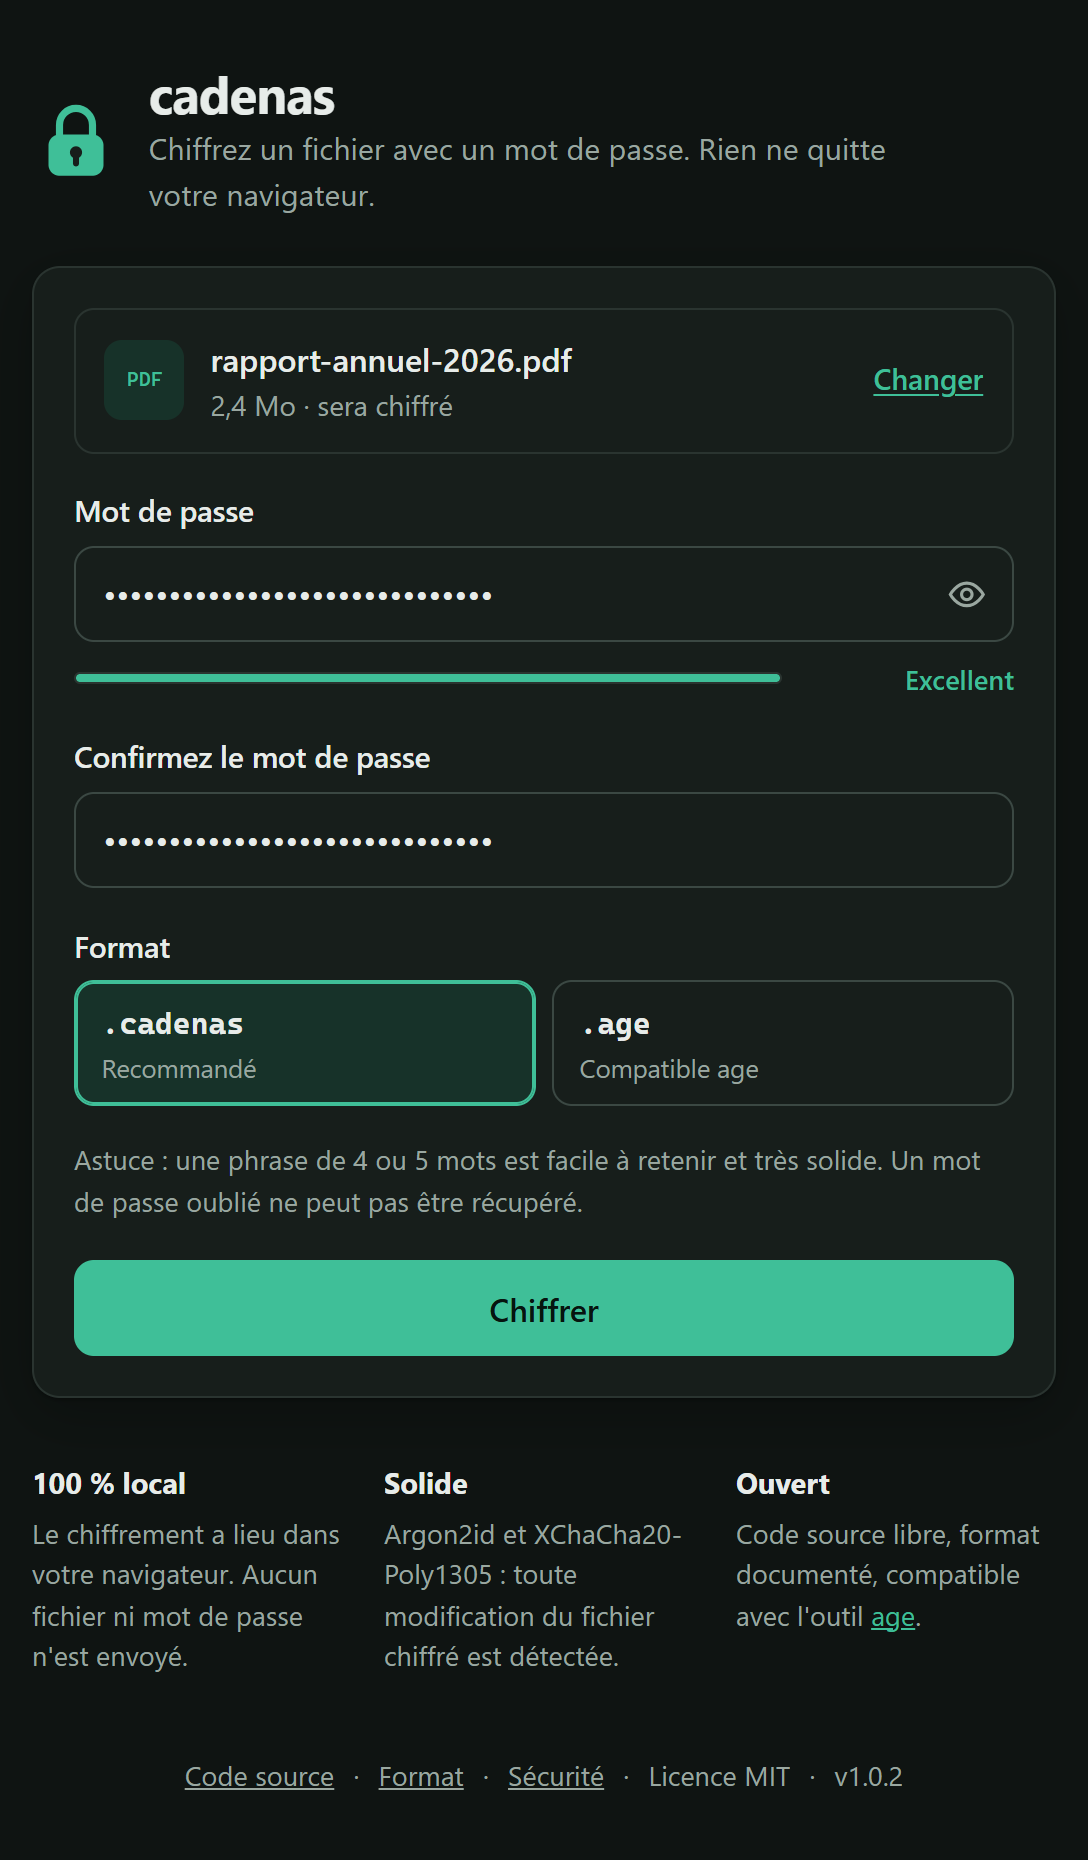
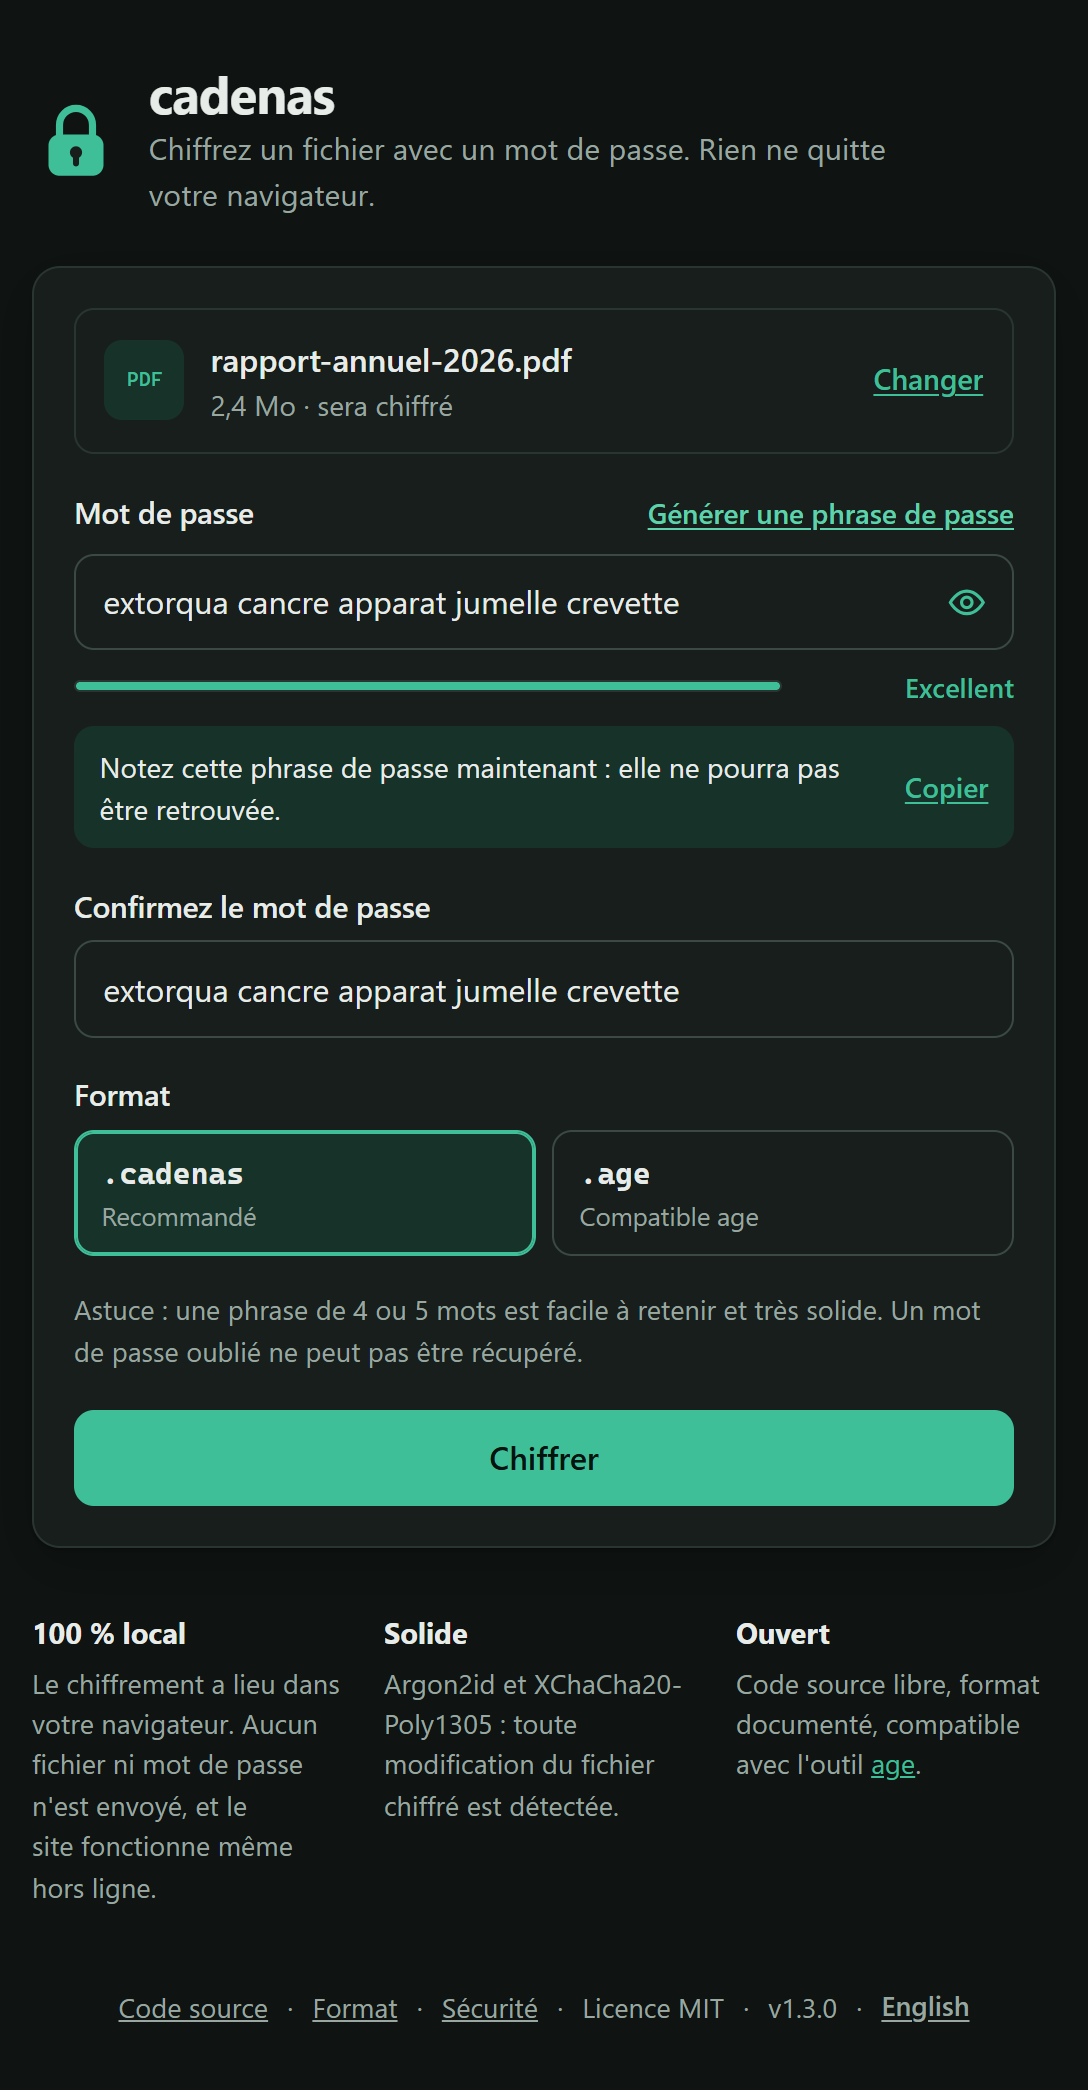
chore(release): 1.3.0
- Site installable, utilisable hors ligne (service worker, manifeste,
  mises à jour à la demande).
- Exécutables autonomes de la CLI : Windows x64, macOS arm64,
  Linux x64 et arm64, joints à la release avec attestation.

README : captures d'écran à jour et section hors ligne.

diff --git a/CHANGELOG.md b/CHANGELOG.md
@@ -5,13 +5,21 @@ Toutes les modifications notables de ce projet sont documentées dans ce fichier
 Le format suit [Keep a Changelog](https://keepachangelog.com/fr/1.1.0/)
 et le projet respecte le [versionnage sémantique](https://semver.org/lang/fr/).
 
-## [Non publié]
+## [1.3.0] - 2026-09-27
+
+Site installable et utilisable hors ligne, exécutables autonomes de la CLI.
+Aucun changement du format de fichier.
 
 ### Ajouté
 
 - Site installable et utilisable hors ligne (application web progressive) : manifeste, icônes, et service worker qui met en cache tous les fichiers du site. Une nouvelle version s'installe en arrière-plan et ne s'applique qu'après un clic sur « Mettre à jour », jamais au milieu d'un chiffrement.
 - Image Docker : le service worker reçoit sa propre politique de sécurité (`connect-src 'self'`, pour mettre le site en cache) ; la page garde `connect-src 'none'`. Manifeste servi avec le bon type MIME.
 - Exécutables autonomes de la CLI, sans Node.js à installer : Windows x64, macOS arm64, Linux x64 et arm64. Construits par la CI (Node.js « Single Executable Application »), testés sur chaque plateforme avant publication, joints à chaque release avec empreintes et attestation de provenance. `npm run build:exe` construit celui de la plateforme courante.
+- Le workflow de release peut être lancé à la main pour tout construire et tester sans rien publier.
+
+### Modifié
+
+- README : captures d'écran à jour (générateur de phrase de passe, sélecteur de langue), installation hors ligne.
 
 ## [1.2.0] - 2026-09-27
 
@@ -186,6 +194,7 @@ En résumé :
 
 - Initialisation du projet : `package.json`, licence MIT, README, `.editorconfig`, `.gitignore`.
 
+[1.3.0]: https://github.com/PierreEbele/cadenas/compare/v1.2.0...v1.3.0
 [1.2.0]: https://github.com/PierreEbele/cadenas/compare/v1.1.0...v1.2.0
 [1.1.0]: https://github.com/PierreEbele/cadenas/compare/v1.0.2...v1.1.0
 [1.0.2]: https://github.com/PierreEbele/cadenas/compare/v1.0.1...v1.0.2

diff --git a/README.md b/README.md
@@ -15,7 +15,7 @@ existe en ligne de commande.
   <a href="https://pierreebele.github.io/cadenas/">
     <picture>
       <source media="(prefers-color-scheme: dark)" srcset="https://raw.githubusercontent.com/PierreEbele/cadenas/main/docs/images/screenshot-dark.png">
-      <img src="https://raw.githubusercontent.com/PierreEbele/cadenas/main/docs/images/screenshot-light.png" alt="Le site cadenas : un fichier rapport-annuel-2026.pdf est sélectionné, le mot de passe est jugé excellent, le format .cadenas est choisi et le bouton Chiffrer est prêt." width="420">
+      <img src="https://raw.githubusercontent.com/PierreEbele/cadenas/main/docs/images/screenshot-light.png" alt="Le site cadenas : un fichier rapport-annuel-2026.pdf est sélectionné, une phrase de passe de cinq mots vient d'être générée et jugée excellente, le format .cadenas est choisi et le bouton Chiffrer est prêt." width="420">
     </picture>
   </a>
 </p>
@@ -48,6 +48,11 @@ Version en ligne : **<https://pierreebele.github.io/cadenas/>**
 
 cadenas reconnaît tout seul si le fichier est à chiffrer ou à déchiffrer. Le site
 est disponible en français et en anglais, selon la langue du navigateur.
+
+Après une première visite, **le site fonctionne hors ligne** et peut s'installer
+comme une application (menu du navigateur → « Installer cadenas » ou « Ajouter à
+l'écran d'accueil »). Sur Chrome et Edge, les fichiers de plus de 256 Mio sont
+écrits directement sur le disque : pas de limite de taille liée à la mémoire.
 
 ## Héberger soi-même avec Docker
 
